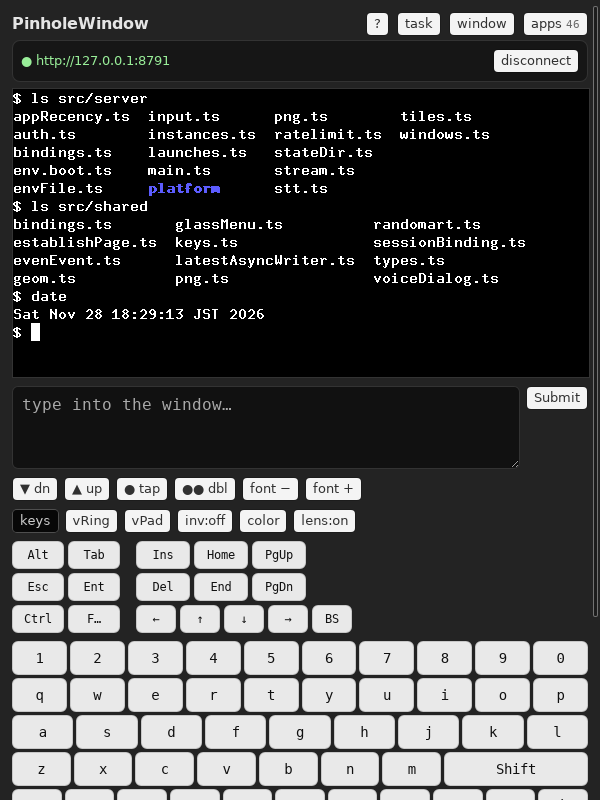
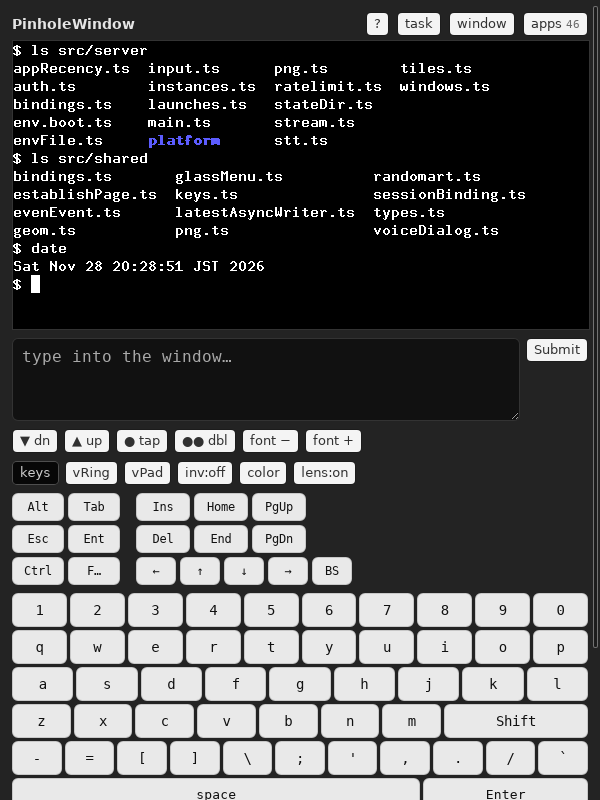
docs: retake the screenshots

Changed region(s): [[0.0, 0.5, 1.0, 1.0], [0.0, 0.0, 0.99, 0.5312], [0.63, 0.2188, 0.84, 0.375]]

diff --git a/docs/usage.ja.md b/docs/usage.ja.md
@@ -23,7 +23,9 @@
 
 一覧でダブルタップすると、システムの確認を経てアプリを終了します。
 
-<img src="img/glasses-servers.png" width="288" alt="レンズに出る接続先の一覧：tap=open と dbl=exit を示す見出しと、カーソルが載った接続先 1 件">
+| グラス | スマホ |
+| --- | --- |
+| <img src="img/glasses-servers.png" width="288" alt="レンズに出る接続先の一覧：tap=open と dbl=exit を示す見出しと、カーソルが載った接続先 1 件"> | <img src="img/phone-servers.png" width="300" alt="接続先の一覧を表示したスマホ画面：ミラーの位置に、接続先 1 行と … ボタンのあるカード"> |
 
 ## グラスのジェスチャ
 

diff --git a/docs/usage.md b/docs/usage.md
@@ -23,7 +23,9 @@ until you revoke it on the PC.
 
 A double tap at the list leaves the app, after the system's confirmation.
 
-<img src="img/glasses-servers.png" width="288" alt="The server list on the lens: a header with tap=open and dbl=exit, and one server under the cursor">
+| On the glasses | On the phone |
+| --- | --- |
+| <img src="img/glasses-servers.png" width="288" alt="The server list on the lens: a header with tap=open and dbl=exit, and one server under the cursor"> | <img src="img/phone-servers.png" width="300" alt="The phone at the server list: a card with one server row and its … button, in place of the mirror"> |
 
 ## Glasses gestures
 
